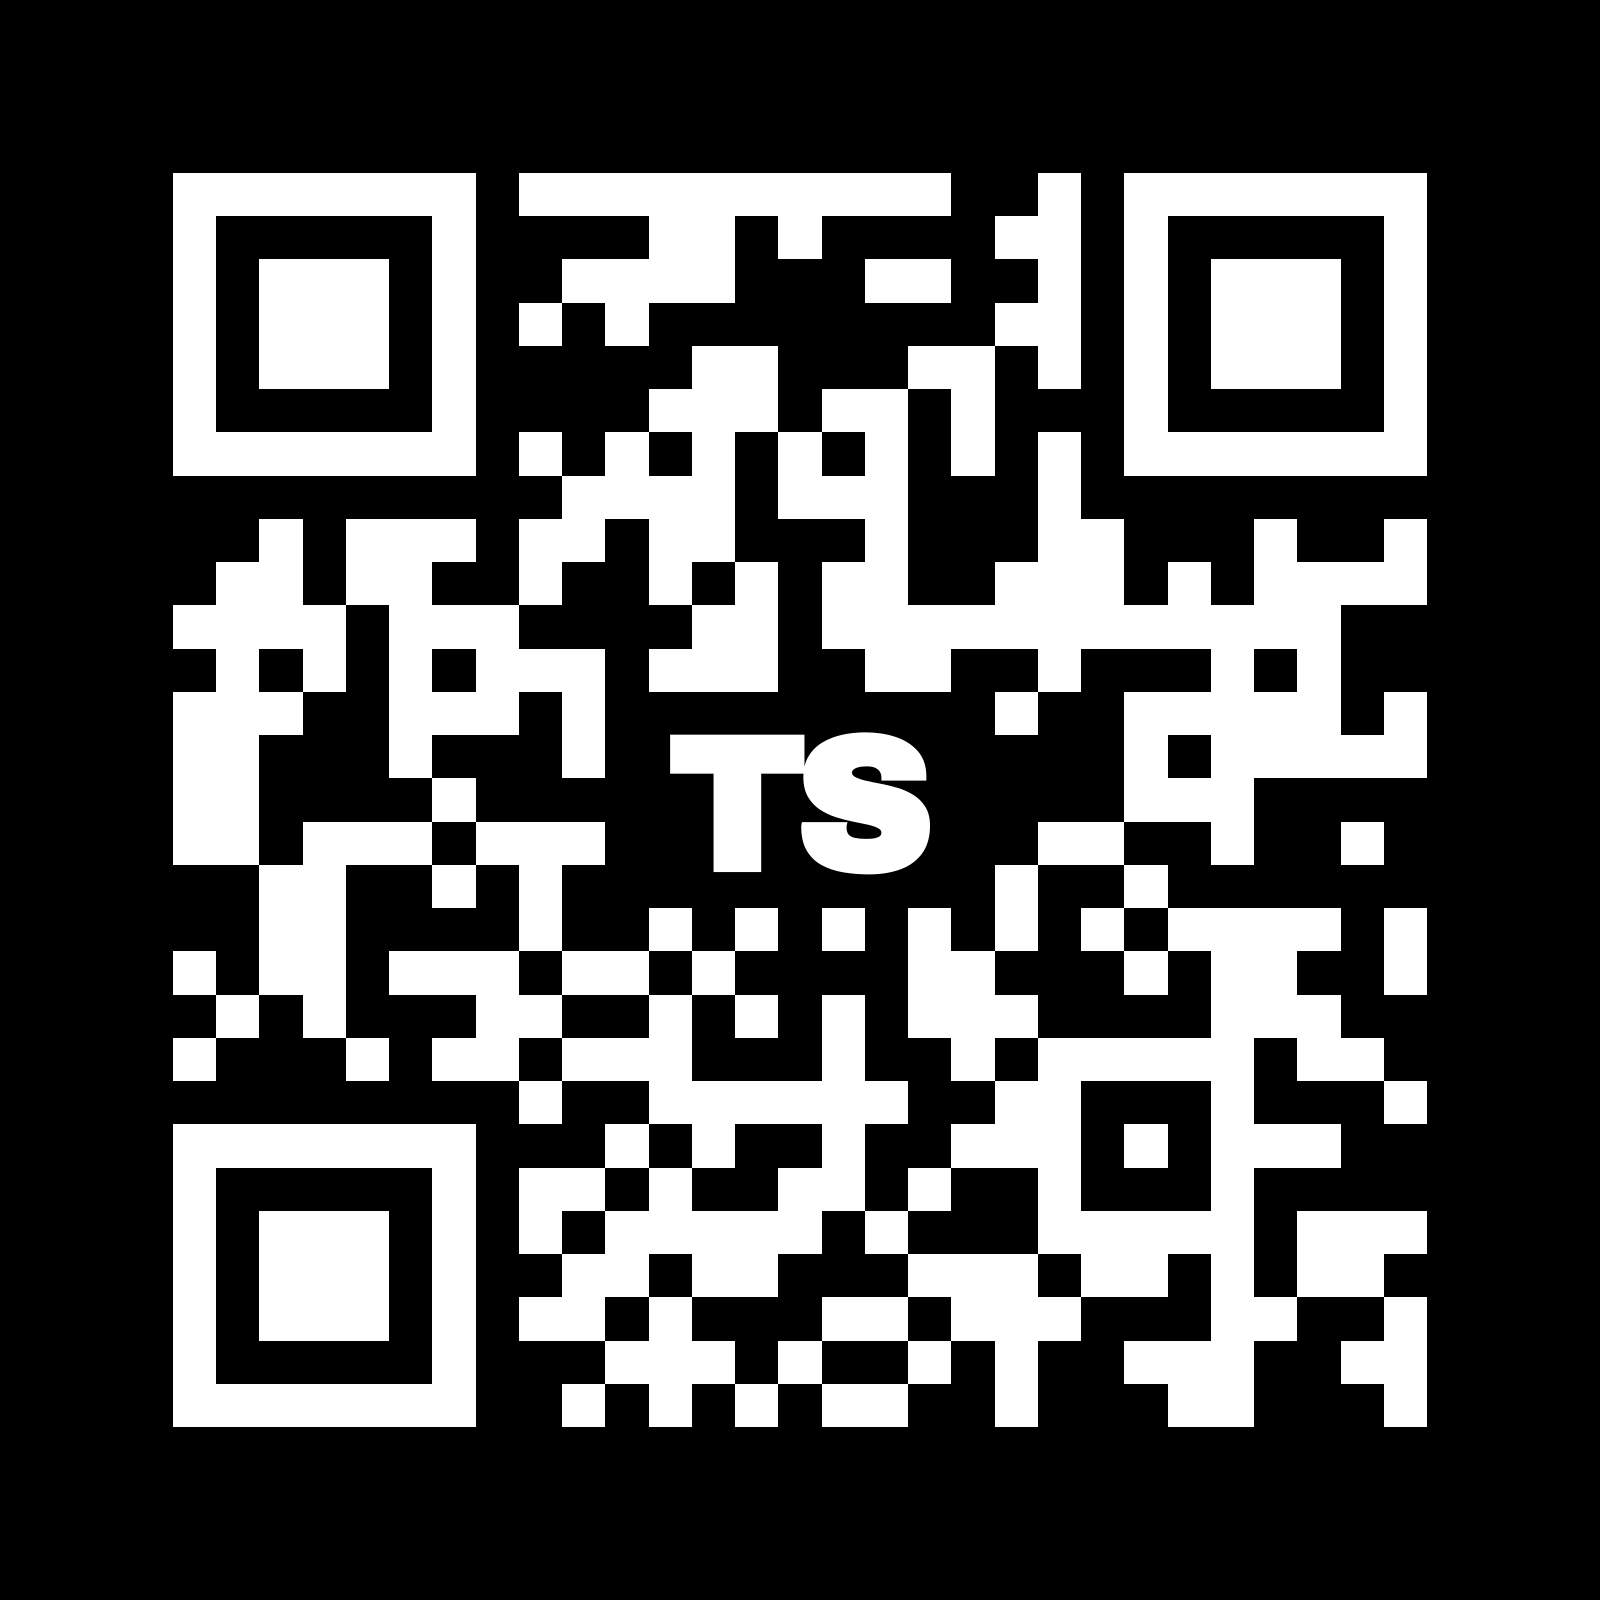
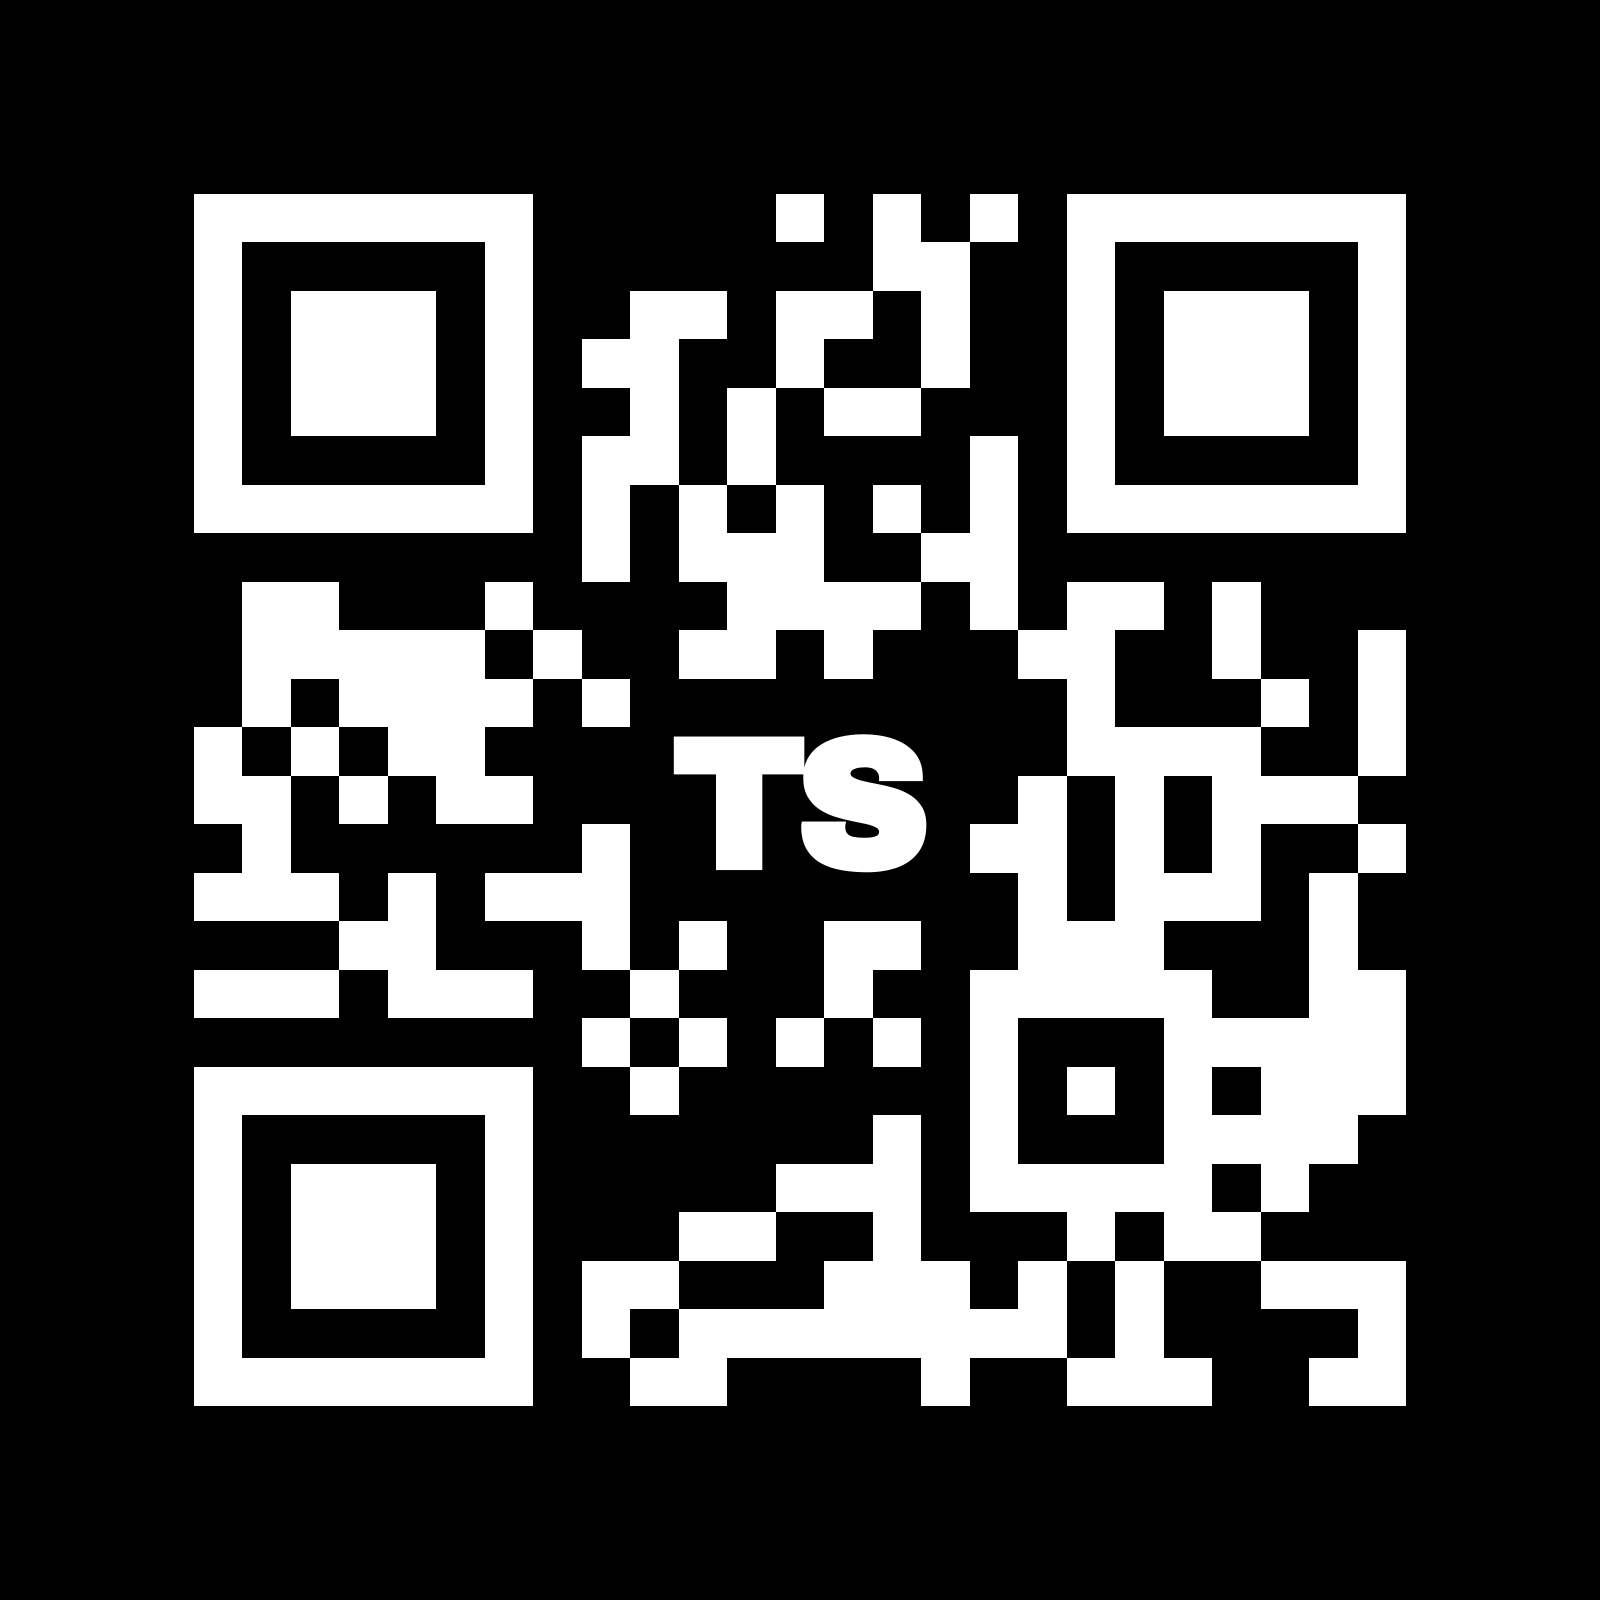
Code QR 25 modules (niveau Q)
Claude-Session: https://claude.ai/code/session_01Cv27fT4cLfqQieM2ezMj3N

diff --git a/source/qr.py b/source/qr.py
@@ -2,9 +2,9 @@
 import re,os,segno
 ROOT=os.path.dirname(os.path.dirname(os.path.abspath(__file__)))
 URL='HTTPS://TOTALSTUDIOS.CA/QR'  # majuscules = mode alphanumérique : moins de modules, donc des modules plus gros à l'impression
-q=segno.make(URL,error='h',micro=False,boost_error=False)
+q=segno.make(URL,error='q',micro=False,boost_error=False)
 M=[list(r) for r in q.matrix];n=len(M)
-KW,KH=9,5;cx0=(n-KW)//2;cy0=(n-KH)//2  # zone dégagée au centre (modules)
+KW,KH=7,5;cx0=(n-KW)//2;cy0=(n-KH)//2  # zone dégagée au centre (modules)
 def inbox(x,y):return cx0<=x<cx0+KW and cy0<=y<cy0+KH
 def fav(name):
     t=open(f'{ROOT}/source/assets/{name}',encoding='utf8').read()
@@ -19,7 +19,7 @@ def build(fg,bg,favname,path):
                 while x<n and M[y][x] and not inbox(x,y):x+=1
                 d+=f'M{x0+Q} {y+Q}h{x-x0}v1h-{x-x0}z'
             else:x+=1
-    C=Q+n/2;sc=6.0/551
+    C=Q+n/2;sc=5.2/551
     inner=re.sub(r'class="cls-1"','',fav(favname))
     inner=re.sub(r'<defs>.*?</defs>','',inner,flags=re.S)
     svg=f'<?xml version="1.0" encoding="UTF-8"?>\n<svg xmlns="http://www.w3.org/2000/svg" viewBox="0 0 {S} {S}" shape-rendering="crispEdges"><rect width="{S}" height="{S}" fill="{bg}"/><path d="{d}" fill="{fg}"/><g transform="translate({C} {C}) scale({sc:.6f}) translate(-594.5 -587.5)" fill="{fg}" shape-rendering="geometricPrecision">{inner}</g></svg>\n'
